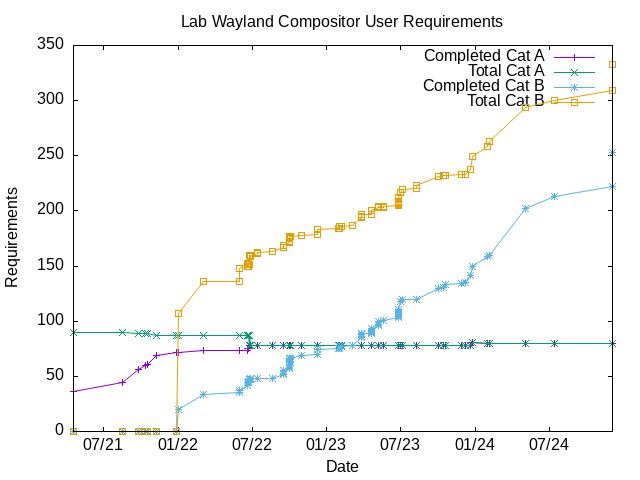
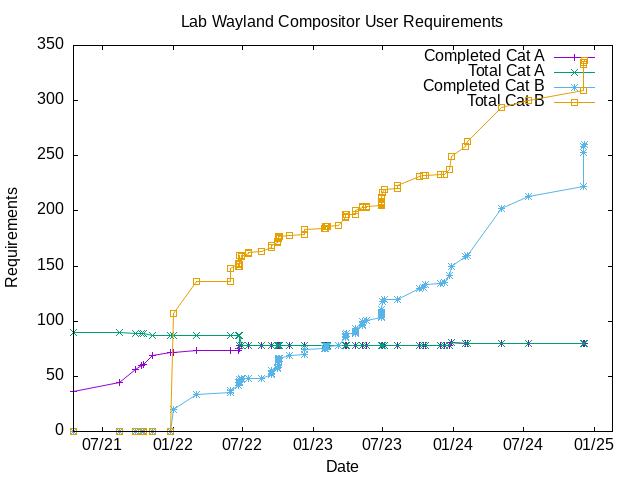
Just run make on previous stuff

diff --git a/all-cat-A-and-B-items.md b/all-cat-A-and-B-items.md
@@ -100,7 +100,8 @@ This file has been auto-generated based on README.md. Do not edit it manually
 |  B  | complete | 1.2.15    | wayland-protocol                | tablet-v2-manager                                       |
 |  B  | complete | 1.2.16    | wayland-protocol                | text-input-unstable-v3                                  |
 |  B  | complete | 1.2.17    | wayland-protocol                | xdg-decoration-unstable-v1                              |
-|  B  |          | 1.2.18    | wayland-protocol                | xdg-foreign-unstable-v2                                 |
+|  B  | complete | 1.2.18.1  | wayland-protocol                | xdg-foreign-v1                                          |
+|  B  | complete | 1.2.18.2  | wayland-protocol                | xdg-foreign-v2                                          |
 |  B  | complete | 1.2.19    | wayland-protocol                | xdg-output-unstable-v1                                  |
 |  B  |          | 1.2.20    | wayland-protocol                | xwayland-keyboard-grab-unstable-v1                      |
 |  B  | complete | 1.2.21    | wayland-protocol                | drm-lease-v1                                            |

diff --git a/incomplete-cat-B-items.md b/incomplete-cat-B-items.md
@@ -9,7 +9,6 @@ This file has been auto-generated based on README.md. Do not edit it manually
 |  B  |          | 1.2.9     | wayland-protocol                | linux-dmabuf-unstable-v1                                |
 |  B  |          | 1.2.10    | wayland-protocol                | linux-explicit-synchronization-unstable-v1              |
 |  B  |          | 1.2.12    | wayland-protocol                | pointer-gestures-unstable-v1                            |
-|  B  |          | 1.2.18    | wayland-protocol                | xdg-foreign-unstable-v2                                 |
 |  B  |          | 1.2.20    | wayland-protocol                | xwayland-keyboard-grab-unstable-v1                      |
 |  B  |          | 1.2.28    | wayland-protocol                | content-type-v1                                         |
 |  B  |          | 2.1.1     | resistance                      | `strength`                                              | If we implement, consider a better name

diff --git a/stats.md b/stats.md
@@ -3,6 +3,6 @@ This file has been auto-generated based on README.md. Do not edit it manually
 # Requirements Breakdown
 
 - Cat A:  80 / 80 complete
-- Cat B:  258 / 335 complete
+- Cat B:  260 / 336 complete
 - Cat C:  1 / 49 complete
-- TOTAL:  339 / 464 complete
+- TOTAL:  341 / 465 complete
